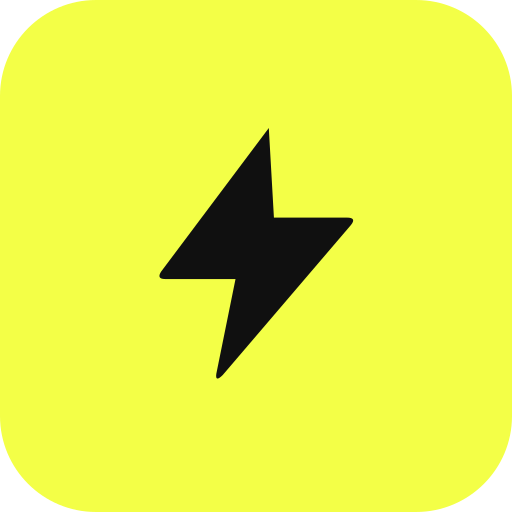
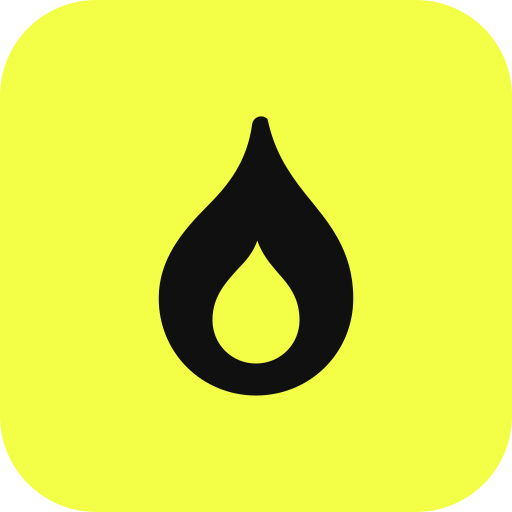
Replace the bolt brand mark with a flame
I misread the last request and pushed a cache-bust that would have forced
the bolt onto the home screen. The mark is now genuinely a flame.

FLAME_PATH replaces BOLT_PATH in src/lib/brand-mark.ts, the single source of
truth shared by the React mark, the canvas share-card renderer and the asset
generator. The glyph is a tall teardrop body with a curled tip and an inner
cutout, drawn as two subpaths in the same 24x24 box as before, so every
existing transform and safe-zone calculation still applies.

Two subpaths mean every fill needs evenodd, or the cutout renders as a solid
blob: applied as fillRule in the SVG mark, as the Path2D fill rule on canvas,
and as fill-rule on both generated paths.

Regenerated every asset from the script -- favicon, PWA icons, maskable and
Apple touch icons, the OG image and the Expo icon/splash -- then bumped the
shared icon revision to ?v=6 and the service worker to v7 so installed
phones refetch the mark instead of serving the cached one.

Adds a guard: the mark must be a flame, the generator's duplicated copy must
match brand-mark.ts byte for byte, and every real <path> fill must carry
evenodd. Verified it fails both when evenodd is dropped and when the bolt
returns.

Changed region(s): [[0.2812, 0.2188, 0.7188, 0.7812], [0.4062, 0.375, 0.4375, 0.4062], [0.375, 0.4062, 0.4062, 0.4375]]

diff --git a/src/app/layout.tsx b/src/app/layout.tsx
@@ -25,7 +25,7 @@ export const metadata: Metadata = {
   // `?v=` busts the OS/browser icon caches whenever the mark is regenerated
   // (scripts/gen-brand-assets.mjs) — home-screen icons are cached by URL and
   // otherwise survive every deploy. Keep in sync with manifest.webmanifest.
-  manifest: '/manifest.webmanifest?v=5',
+  manifest: '/manifest.webmanifest?v=6',
   appleWebApp: {
     capable: true,
     title: appName,
@@ -33,11 +33,11 @@ export const metadata: Metadata = {
   },
   icons: {
     icon: [
-      { url: '/favicon.ico?v=5', sizes: '32x32' },
-      { url: '/icon.svg?v=5', type: 'image/svg+xml' },
-      { url: '/icons/icon-192.png?v=5', sizes: '192x192', type: 'image/png' },
+      { url: '/favicon.ico?v=6', sizes: '32x32' },
+      { url: '/icon.svg?v=6', type: 'image/svg+xml' },
+      { url: '/icons/icon-192.png?v=6', sizes: '192x192', type: 'image/png' },
     ],
-    apple: [{ url: '/apple-touch-icon.png?v=5', sizes: '180x180', type: 'image/png' }],
+    apple: [{ url: '/apple-touch-icon.png?v=6', sizes: '180x180', type: 'image/png' }],
   },
   openGraph: {
     title: `${appName} — Train with intention`,
@@ -47,7 +47,7 @@ export const metadata: Metadata = {
     url: '/',
     images: [
       {
-        url: '/og.png?v=5',
+        url: '/og.png?v=6',
         width: 1200,
         height: 630,
         alt: `${appName} — train with intention`,
@@ -58,7 +58,7 @@ export const metadata: Metadata = {
     card: 'summary_large_image',
     title: `${appName} — Train with intention`,
     description: 'Plan, log and understand your training. A calm, private fitness companion.',
-    images: ['/og.png?v=5'],
+    images: ['/og.png?v=6'],
   },
 };
 

diff --git a/tests/mobile-overflow.test.ts b/tests/mobile-overflow.test.ts
@@ -180,3 +180,31 @@ test('icon cache-bust revisions agree across layout and manifest', () => {
     `icon URLs must share one ?v= revision, found: ${[...revs].join(', ')}`,
   );
 });
+
+/**
+ * The brand mark is a flame. Its geometry is duplicated in the asset
+ * generator (which cannot import from src/), so the two must not drift --
+ * and every fill needs evenodd, or the flame's inner cutout renders as a
+ * solid blob.
+ */
+test('the brand mark is a flame drawn with evenodd everywhere', () => {
+  const mark = fs.readFileSync('src/lib/brand-mark.ts', 'utf8');
+  const gen = fs.readFileSync('scripts/gen-brand-assets.mjs', 'utf8');
+  assert.ok(mark.includes('FLAME_PATH'), 'brand-mark must export FLAME_PATH');
+  assert.ok(!/BOLT_PATH/.test(mark + gen), 'the bolt geometry must be gone');
+
+  const d = mark.match(/FLAME_PATH =\s*\n?\s*'([^']+)'/)?.[1];
+  assert.ok(d, 'FLAME_PATH must be a path string');
+  assert.equal((d.match(/Z/g) ?? []).length, 2, 'flame = body + inner cutout');
+  assert.ok(gen.includes(d), 'the generator must mirror the exact same path');
+
+  // Every consumer fills with evenodd.
+  assert.match(fs.readFileSync('src/components/brand.tsx', 'utf8'), /fillRule="evenodd"/);
+  assert.match(fs.readFileSync('src/lib/share-card.ts', 'utf8'), /'evenodd'/);
+  // Count only real <path> fills, not the prose in the file's comments.
+  const fills = gen.match(/<path d="\$\{FLAME_PATH\}"[^>]*\/>/g) ?? [];
+  assert.ok(fills.length >= 2, 'the generator must draw the flame');
+  for (const fill of fills) {
+    assert.match(fill, /fill-rule="evenodd"/, `generated flame fill needs evenodd: ${fill}`);
+  }
+});

diff --git a/src/lib/brand-mark.ts b/src/lib/brand-mark.ts
@@ -1,15 +1,16 @@
 /**
- * Shared brand geometry — the one source of truth for the SmartFit bolt so
+ * Shared brand geometry — the one source of truth for the SmartFit flame so
  * the React mark (`components/brand.tsx`), the canvas share-card renderer
  * (`lib/share-card.ts`) and the generated assets (`scripts/gen-brand-assets.mjs`)
  * all draw the exact same shape.
  *
- * The bolt lives in a 24×24 box, drawn as a closed polygon (sharp, athletic,
- * slightly italic slant). The mark itself is a rounded-square "charge cell"
- * in volt (#8AD200) with near-black ink on top.
+ * The flame lives in a 24×24 box: a tall teardrop body with a curled tip and
+ * an inner cutout, drawn as two subpaths. It needs `fill-rule: evenodd` (SVG)
+ * or `'evenodd'` (canvas) for the cutout to punch through. The mark itself is
+ * a rounded-square "charge cell" in volt (#8AD200) with near-black ink on top.
  */
-export const BOLT_PATH =
-  'M13 2 L4.6 13.2 Q4.2 13.8 4.9 13.8 L10.4 13.8 L8.9 21.2 Q8.8 21.9 9.4 21.3 L19.4 9.6 Q19.9 9 19.1 9 L13.4 9 Z';
+export const FLAME_PATH =
+  'M12.9 1.3 C12.5 0.9 11.8 1.1 11.7 1.7 C11.3 4.6 9.9 6.4 8.2 8.1 C6.2 10.1 4.4 12.3 4.4 15.3 C4.4 19.6 7.8 22.9 12 22.9 C16.2 22.9 19.6 19.6 19.6 15.3 C19.6 11.5 17.6 9.3 15.9 7.2 C14.3 5.2 13.4 3.6 12.9 1.3 Z M12 20.4 C10.1 20.4 8.6 18.9 8.6 17 C8.6 15.2 9.6 14.1 10.6 13 C11.2 12.4 11.8 11.7 12.1 10.8 C12.5 11.9 13.1 12.6 13.7 13.3 C14.6 14.3 15.4 15.3 15.4 17 C15.4 18.9 13.9 20.4 12 20.4 Z';
 
 /** Volt — the brand accent. Near-black ink always sits on top of it. */
 export const VOLT = '#8AD200';

diff --git a/src/components/brand.tsx b/src/components/brand.tsx
@@ -1,12 +1,12 @@
 import { cn } from '@/lib/utils';
-import { BOLT_PATH } from '@/lib/brand-mark';
+import { FLAME_PATH } from '@/lib/brand-mark';
 
 /**
- * The one SmartFit mark: the volt bolt on a rounded-square charge cell — the
+ * The one SmartFit mark: the volt flame on a rounded-square charge cell — the
  * badge that leads the dashboard header greeting, and the geometry of
  * `public/icon.svg`, the PWA/Expo icons (`scripts/gen-brand-assets.mjs`) and
  * the share-card canvas mark. One mark everywhere: favicon, splash, share
- * cards, shell, onboarding, wordmarks. The bolt path lives in
+ * cards, shell, onboarding, wordmarks. The flame path lives in
  * `lib/brand-mark.ts` so canvas and SVG renderers share one source of truth.
  */
 
@@ -26,7 +26,7 @@ export function Logo({ className, size = 36 }: { className?: string; size?: numb
         fill="currentColor"
         aria-hidden
       >
-        <path d={BOLT_PATH} />
+        <path d={FLAME_PATH} fillRule="evenodd" />
       </svg>
     </span>
   );

diff --git a/src/lib/share-card.ts b/src/lib/share-card.ts
@@ -24,7 +24,7 @@
 
 import { drawMapTiles, mapPoint, MAP_ATTRIBUTION, type MapTransform } from './map-tiles';
 import { fmtDuration, fmtPace, projectRoute, type GeoPoint } from '@smartfit/core';
-import { BOLT_PATH, VOLT, VOLT_INK } from '@/lib/brand-mark';
+import { FLAME_PATH, VOLT, VOLT_INK } from '@/lib/brand-mark';
 
 export type ShareStyle = 'transparent' | 'dark' | 'light';
 export type ShareFormat = 'square' | 'story';
@@ -243,13 +243,13 @@ export function drawLogoMark(
   ctx.fill();
   ctx.restore();
 
-  // The bolt, in the mark's own 24-box coordinates.
+  // The flame, in the mark's own 24-box coordinates.
   const s = (size * 0.6) / 24;
   ctx.save();
   ctx.translate(x + (size - 24 * s) / 2, y + (size - 24 * s) / 2);
   ctx.scale(s, s);
   ctx.fillStyle = opts.ink ?? VOLT_INK;
-  ctx.fill(new Path2D(BOLT_PATH));
+  ctx.fill(new Path2D(FLAME_PATH), 'evenodd');
   ctx.restore();
 }
 

diff --git a/public/sw.js b/public/sw.js
@@ -10,7 +10,7 @@
  * The app's *data* is already offline-capable (localStorage in local mode,
  * Firestore's IndexedDB cache in cloud mode); this only covers the shell.
  */
-const VERSION = 'smartfit-v6'; // icon URLs bumped to ?v=5; evict the precached mark
+const VERSION = 'smartfit-v7'; // flame mark replaces the bolt; evict the precached icon
 const SHELL_CACHE = `${VERSION}-shell`;
 const ASSET_CACHE = `${VERSION}-assets`;
 const OFFLINE_URL = '/offline';
